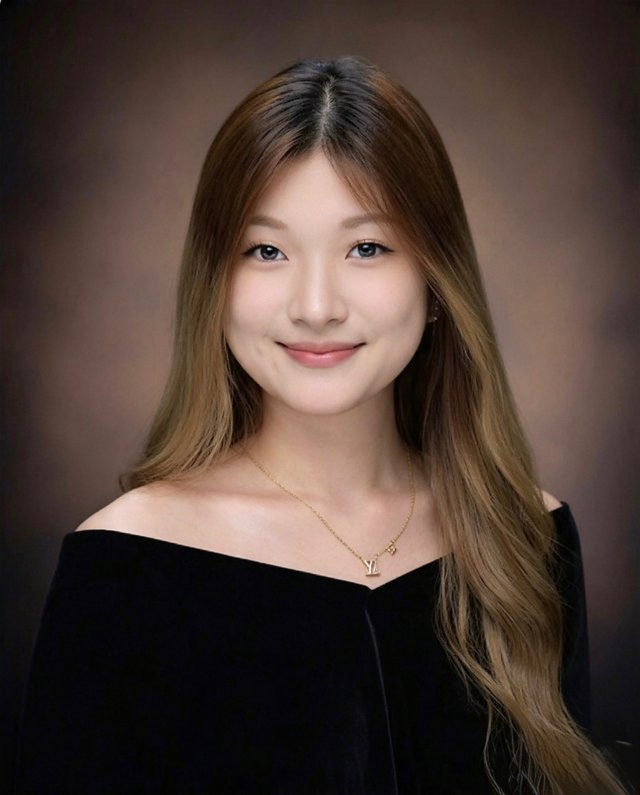
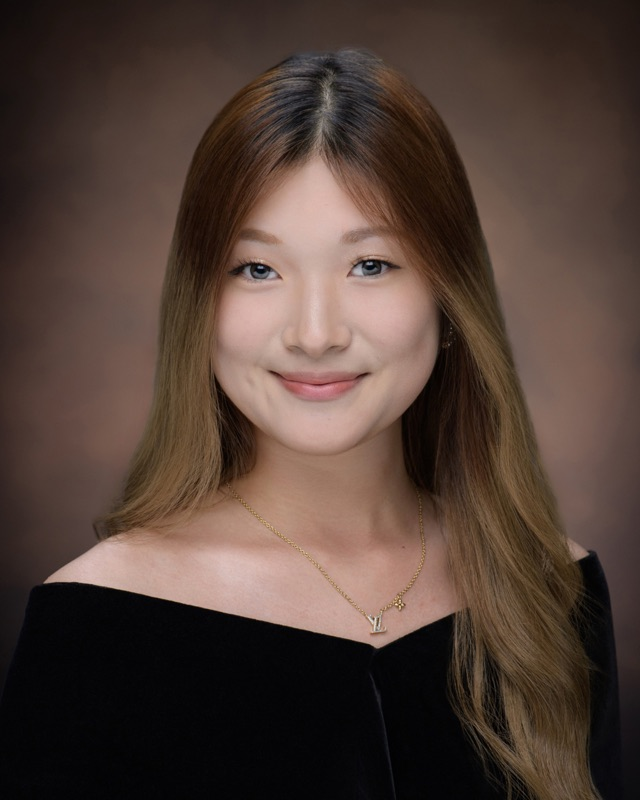
Add senior portraits and match photos to students by name
237 portraits from the school's Senior Portraits folder, shrunk to 800 px
(21 MB) and named the way the sheet spells each student. A student with a
blank Photo cell now gets the photo with their name, via
assets/photos/index.json; the debug panel flags anyone without one.
tools/import_photos.py imports a downloaded folder and rebuilds the index.

Changed region(s): [[0.0, 0.0604, 1.0, 1.0], [0.0, 0.4528, 0.0938, 0.634], [0.9375, 0.3925, 1.0, 0.4226]]

diff --git a/js/data.js b/js/data.js
@@ -7,6 +7,8 @@
 // adds "Scholarship total" (the sum, in its first row). Only the TV feed tab is published.
 // - Status is "Accepted" or "Committed" (blank = CONFIG.categories.default).
 // - Photo is optional: the student's yearbook photo (Google Drive link or a file in assets/photos/).
+//   Left blank, the student gets the photo in assets/photos/ that has their name (listed in
+//   assets/photos/index.json by tools/import_photos.py).
 // - City and State are optional: they're filled in from the matched college. They're only
 //   needed to tell apart same-named colleges, or to place a college that isn't in the list.
 // - The current rotation is the latest "Rotation start" on or before today (or, with
@@ -154,6 +156,18 @@ const Data = (() => {
     };
   }
 
+  // "Doe, Jane" / "JANE DOE.jpg" -> "doe jane": the same key as sheet/match-photos.gs.
+  const nameKey = s => (s || "").normalize("NFD").replace(/[\u0300-\u036f]/g, "")
+    .replace(/['’]/g, "").toLowerCase().replace(/[^a-z0-9]+/g, " ").trim()
+    .split(" ").filter(Boolean).sort().join(" ");
+
+  // name key -> file in assets/photos/, from assets/photos/index.json
+  function photoIndex(files) {
+    const index = new Map();
+    for (const f of Array.isArray(files) ? files : []) index.set(nameKey(f.replace(/\.[^.]+$/, "")), f);
+    return index;
+  }
+
   // Photo cell -> image URL. Google Drive share links become Drive's image link; other web
   // links are used as is; anything else is a file name in assets/photos/.
   function photoUrl(text) {
@@ -187,11 +201,13 @@ const Data = (() => {
 
   async function load() {
     const flags = [];
-    const [text, ipeds, extras] = await Promise.all([
+    const [text, ipeds, extras, photoList] = await Promise.all([
       fetchCsv(flags),
       d3.json("data/colleges.json"),
       d3.json("data/college-extras.json"),
+      d3.json("assets/photos/index.json").catch(() => []),
     ]);
+    const photoFiles = photoIndex(photoList);
     buildIndex(ipeds, extras);
 
     loadedText = text;
@@ -239,7 +255,7 @@ const Data = (() => {
         flags.push({ row, message: `Status "${get("status")}" isn't Accepted or Committed; showing it as ${CONFIG.categories[status].label}.` });
       }
       rows.push({ row, date, student, college, city: get("city"), state: get("state").toUpperCase(), status,
-                  photo: photoUrl(get("photo")) });
+                  photo: photoUrl(get("photo") || photoFiles.get(nameKey(student)) || "") });
     });
 
     const now = today();
@@ -269,6 +285,7 @@ const Data = (() => {
         if (!r.skip && !MapView.project(r.lon, r.lat)) r.skip = `"${r.college}" is outside the US map.`;
       }
       const inBatch = CONFIG.rotation.paused || +r.date === +rotation;
+      if (!r.skip && !r.photo && photoFiles.size && CONFIG.card.photos.enabled) r.warn = r.warn || `No photo: name a photo "${r.student}.jpg" in assets/photos/ or fill in the Photo cell.`;
       if (r.skip) flags.push({ row: r.row, message: `${r.student || "(no name)"}: ${r.skip} Not shown.`, inBatch });
       else if (r.warn) flags.push({ row: r.row, message: `${r.student}: ${r.warn}`, inBatch });
     }

diff --git a/tools/import_photos.py b/tools/import_photos.py
@@ -1,0 +1,60 @@
+"""Add student photos to assets/photos/ and rebuild assets/photos/index.json.
+
+Usage (from the project root, on a Mac):
+    python3 tools/import_photos.py "Senior Portraits"   # import a downloaded folder of photos
+    python3 tools/import_photos.py                      # only rebuild the index
+
+Importing names each photo "First Last.jpg" ("Doe,Jane.JPG" and "Doe, Jane(1).jpg" become
+"Jane Doe.jpg") and shrinks it to 800 px on its long side with macOS's `sips`, so the TV
+loads it fast. A photo with the same name already in assets/photos/ is replaced.
+
+The slideshow reads index.json to give each student with an empty Photo cell the photo that
+has their name (capital letters, accents, punctuation and word order don't matter). A
+nickname won't match: rename the file to the sheet's spelling, e.g. "Sam Hartman.jpg" ->
+"Samuel Hartman.jpg", then run this again.
+"""
+import json, os, re, subprocess, sys
+
+ROOT = os.path.dirname(os.path.dirname(os.path.abspath(__file__)))
+PHOTOS = os.path.join(ROOT, "assets", "photos")
+IMAGE = re.compile(r"\.(jpe?g|png|webp|heic)$", re.I)
+
+
+def nice_name(filename):
+    base = re.sub(r"\(\d+\)$", "", os.path.splitext(filename)[0]).strip()
+    if "," in base:
+        last, first = base.split(",", 1)
+        base = f"{first.strip()} {last.strip()}"
+    return re.sub(r"\s+", " ", base)
+
+
+def import_folder(folder):
+    files = sorted(f for f in os.listdir(folder) if IMAGE.search(f))
+    # Newest first, so an older copy ("Doe,Jane(1).jpg") never replaces a newer one.
+    files.sort(key=lambda f: os.path.getmtime(os.path.join(folder, f)), reverse=True)
+    done = set()
+    for f in files:
+        name = nice_name(f)
+        if name.lower() in done:
+            print(f"  skipped {f} (older copy of {name})")
+            continue
+        done.add(name.lower())
+        out = os.path.join(PHOTOS, name + ".jpg")
+        subprocess.run(["sips", "-Z", "800", "-s", "format", "jpeg", "-s", "formatOptions", "78",
+                        os.path.join(folder, f), "--out", out], check=True, capture_output=True)
+    print(f"Imported {len(done)} photos into assets/photos/")
+
+
+def build_index():
+    files = sorted(f for f in os.listdir(PHOTOS) if IMAGE.search(f))
+    with open(os.path.join(PHOTOS, "index.json"), "w") as fh:
+        json.dump(files, fh, indent=0, ensure_ascii=False)
+        fh.write("\n")
+    print(f"Wrote assets/photos/index.json ({len(files)} photos)")
+
+
+if __name__ == "__main__":
+    os.makedirs(PHOTOS, exist_ok=True)
+    if len(sys.argv) > 1:
+        import_folder(sys.argv[1])
+    build_index()

diff --git a/README.md b/README.md
@@ -32,8 +32,9 @@ out the scholarship amounts and adding the year's total, and it's the only tab t
    have several Accepted rows (one per college); the finale counts each student once.
    Photo is optional: the student's yearbook photo for the card. Paste a Google Drive link (share
    the photo as "Anyone with the link"), or put the file in `assets/photos/` and type its file name.
+   Left blank, a student gets the photo in `assets/photos/` named after them (see "Photos in the site" below).
    Students without a photo show their initials. Turn the spot off with `card.photos` in [js/config.js](js/config.js).
-   To fill in Photo automatically, see "Match photos automatically" below.
+   To fill in Photo automatically from a Drive folder, see "Match photos automatically" below.
    Scholarship is optional and private: see "Scholarship total" below.
 2. **File → Share → Publish to web → Published content & settings**: tick **only TV feed**. Never
    Students or "Entire document": those would publish each student's scholarship amount.
@@ -80,6 +81,21 @@ never who got what. Every offer counts, including colleges the student turned do
 The totals bar at the top shows "$X in scholarships", whatever `totals.scope` is set to, and hides it
 when the total is blank or 0. The `?debug=1` panel shows the total it read, and
 warns if the published sheet has per-student amounts (meaning the Students tab was published by mistake).
+
+## Photos in the site
+The senior portraits live in `assets/photos/`, one per student, named the way the sheet spells them
+(`Jane Doe.jpg`). A student whose Photo cell is blank gets the photo with their name. Capital letters,
+accents, punctuation and word order don't matter, but a nickname does: "Sam Hartman.jpg" won't match
+"Samuel Hartman" on the sheet. The `?debug=1` panel lists every student it found no photo for.
+
+To add photos, download them from Drive (right-click the folder → Download), unzip, and run:
+
+    python3 tools/import_photos.py "path/to/the folder"
+
+It renames `Doe,Jane.JPG` to `Jane Doe.jpg`, shrinks each photo for the TV, and updates
+`assets/photos/index.json`, the list the slideshow reads. After renaming or deleting a photo by hand,
+run `python3 tools/import_photos.py` (no folder) to update the list. This repo is public, so anything in
+`assets/photos/` can be seen by anyone on GitHub.
 
 ## Match photos automatically
 [sheet/match-photos.gs](sheet/match-photos.gs) is a small script that lives in the Google Sheet. About once an
